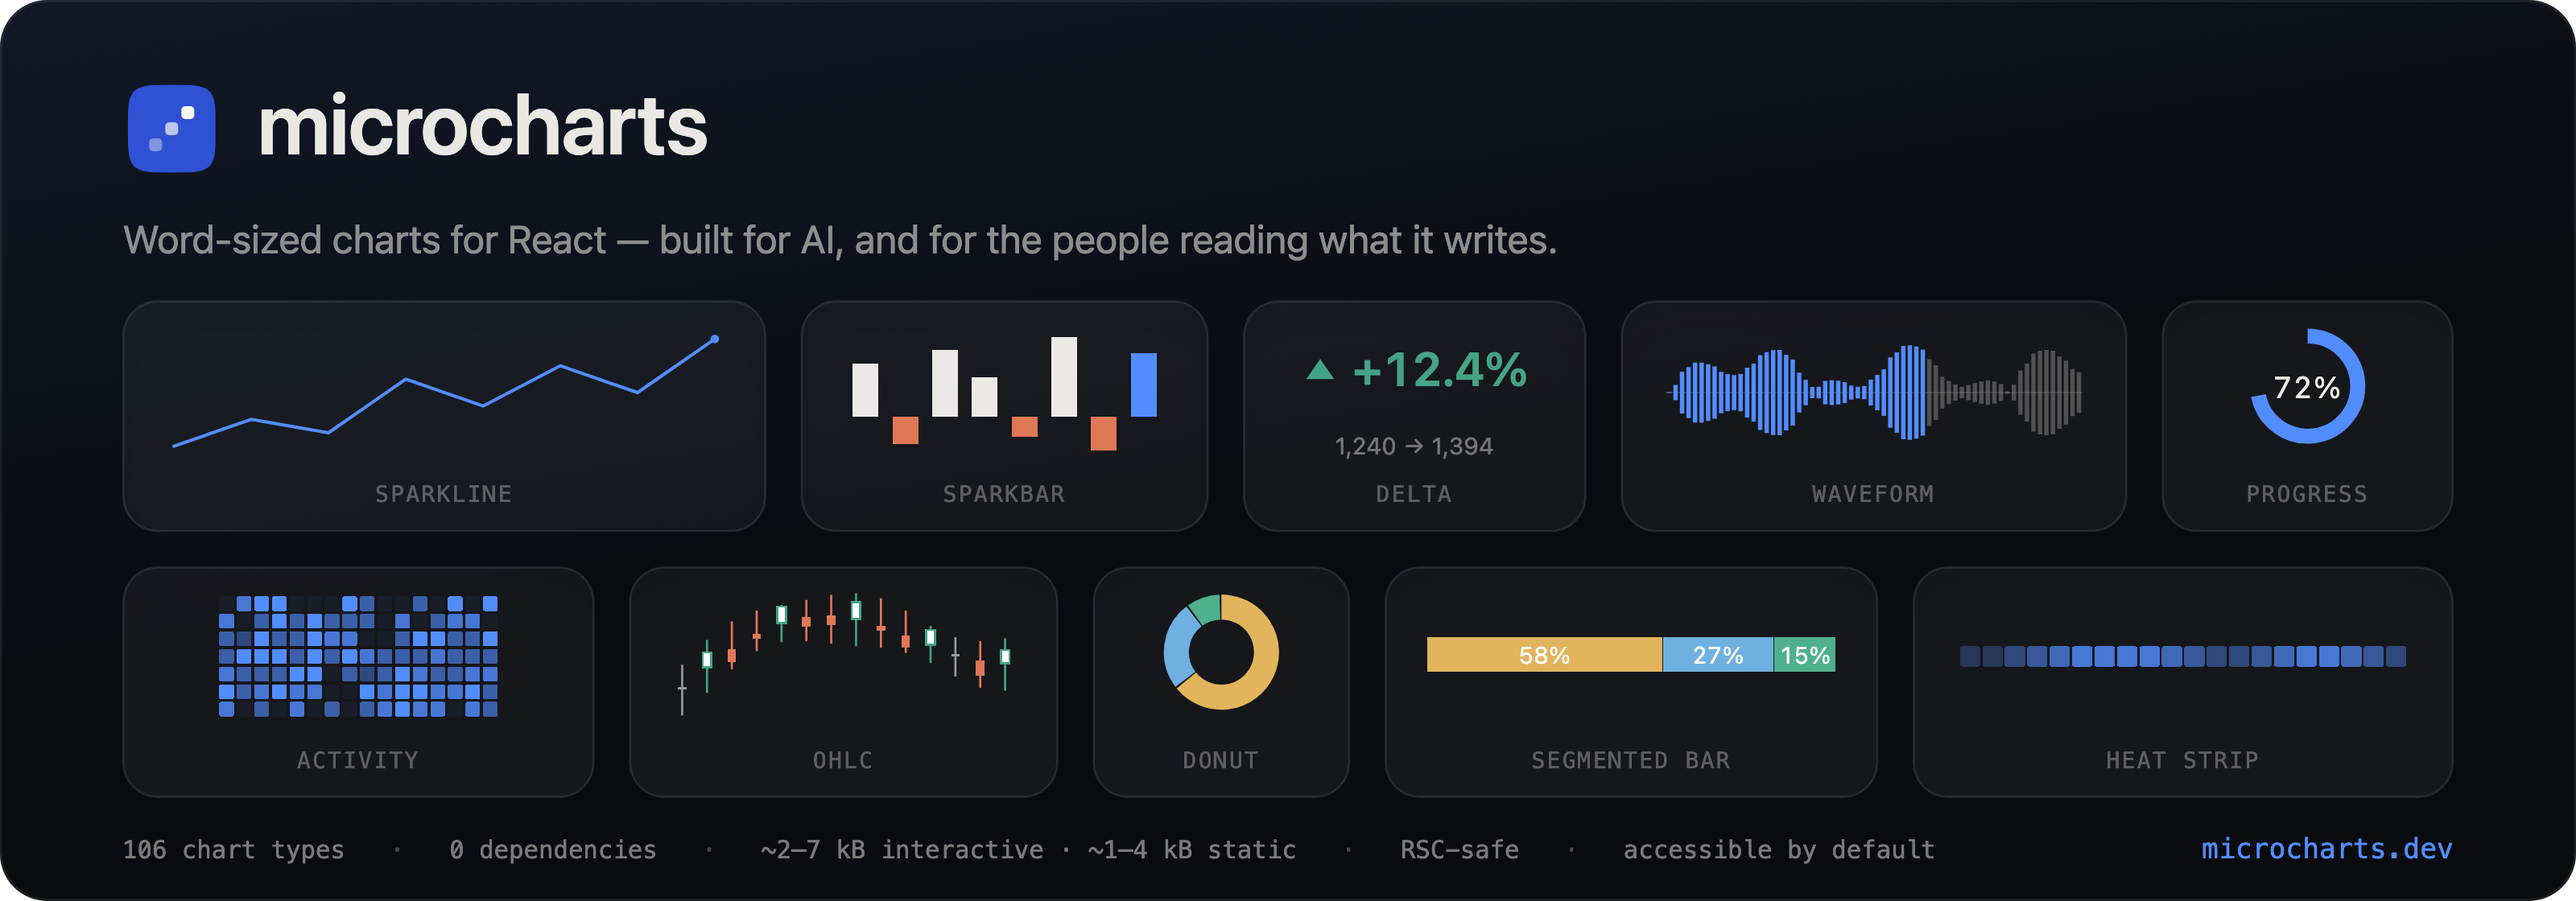
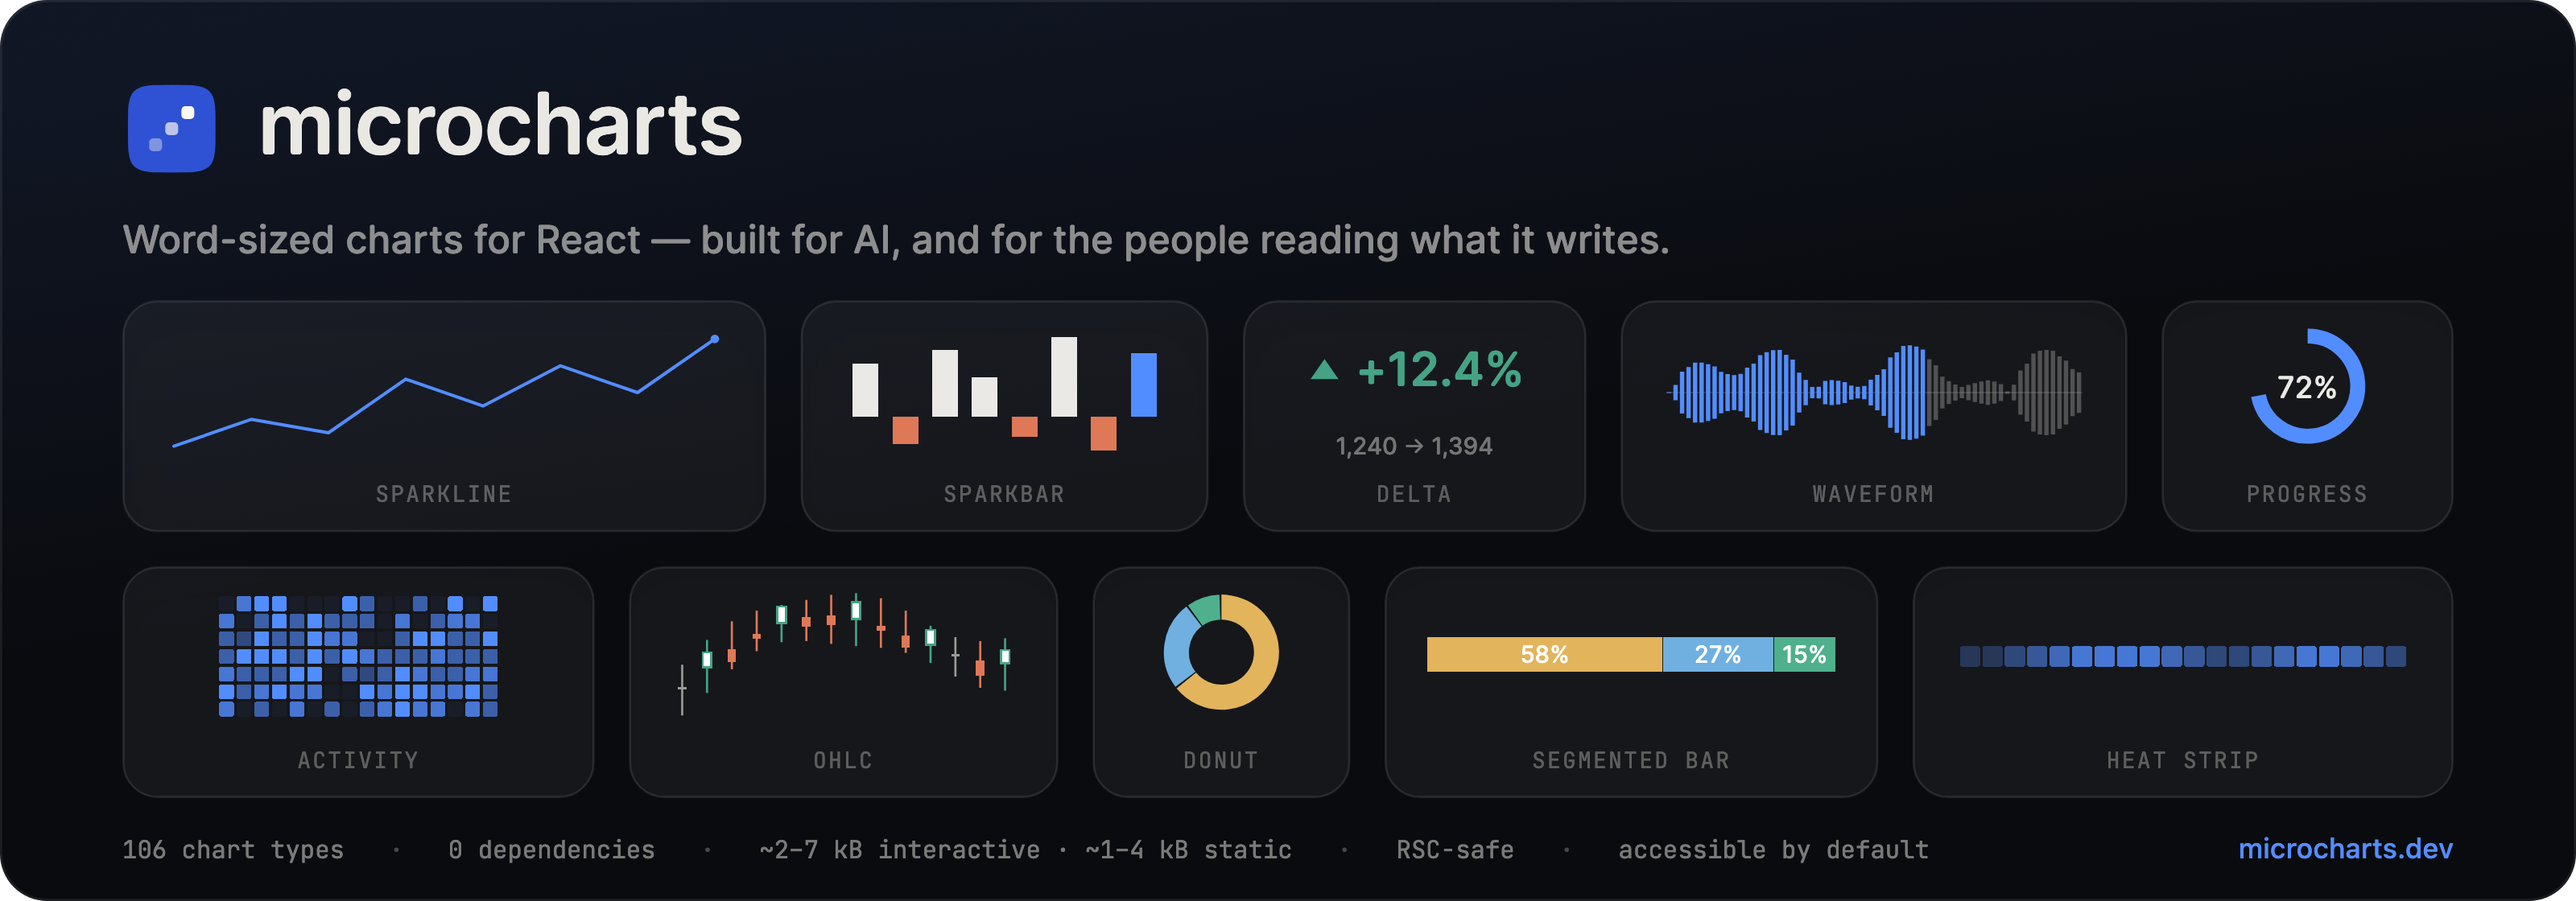
docs(brand): wordmark type and promo font embed

diff --git a/apps/docs/src/components/site-nav.tsx b/apps/docs/src/components/site-nav.tsx
@@ -40,16 +40,13 @@ function isActive(href: string, pathname: string): boolean {
 }
 
 function Wordmark() {
+  // Masthead links keep default App Router prefetch (production only). Dense
+  // surfaces (docs sidebar, gallery cards, MDX) stay on prefetch={false}.
   return (
-    <Link
-      prefetch={false}
-      href="/"
-      className="group flex items-center gap-2.5"
-      aria-label={`${SITE.name} home`}
-    >
+    <Link href="/" className="group flex items-center gap-2.5" aria-label={`${SITE.name} home`}>
       <Brandmark size={28} className="shrink-0 transition-transform group-hover:-translate-y-px" />
       {/* Wordmark sits ~1px low vs links (lowercase + size); nudge up. */}
-      <span className="-translate-y-px text-[0.98rem] font-semibold tracking-[-0.01em] text-fd-foreground">
+      <span className="font-display -translate-y-px text-[0.98rem] font-semibold tracking-[-0.016em] text-fd-foreground">
         microcharts
       </span>
     </Link>
@@ -103,7 +100,6 @@ export function SiteNav() {
             const active = isActive(l.href, pathname);
             return (
               <Link
-                prefetch={false}
                 key={l.href}
                 href={l.href}
                 className={cn(
@@ -165,7 +161,6 @@ export function SiteNav() {
               const active = isActive(l.href, pathname);
               return (
                 <Link
-                  prefetch={false}
                   key={l.href}
                   href={l.href}
                   className={cn(

diff --git a/apps/docs/src/components/mdx.tsx b/apps/docs/src/components/mdx.tsx
@@ -205,12 +205,12 @@ Object.assign(Callout, ChartCallout);
 export function getMDXComponents(components?: MDXComponents) {
   return {
     ...defaultMdxComponents,
-    // No eager prefetch on in-content links: a guide that mentions a few chart
-    // pages would otherwise pull each target route's whole chunk graph on load.
-    // Next still prefetches on hover/press, so navigation stays fast. Machine
-    // surfaces (/catalog.json, /llms.txt, …) are files, not app routes — the
-    // client router would 404 fetching route metadata for them, so they get a
-    // plain anchor.
+    // No prefetch on in-content links: App Router `prefetch={false}` disables
+    // viewport and hover prefetch, so a guide that mentions chart pages won't
+    // pull each target's chunk graph on load. Masthead + home doors keep the
+    // default. Machine surfaces (/catalog.json, /llms.txt, …) are files, not
+    // app routes — the client router would 404 fetching route metadata for
+    // them, so they get a plain anchor.
     a: (props: ComponentProps<"a">) =>
       /\.(json|txt|xml|md)$/.test(props.href ?? "") ? (
         <a {...props} />

diff --git a/apps/docs/src/components/home/actions.tsx b/apps/docs/src/components/home/actions.tsx
@@ -19,8 +19,9 @@ function Door({
   primary?: boolean;
   children: React.ReactNode;
 }) {
+  // Default prefetch: these are the home page's primary exits (few links).
   return (
-    <Link prefetch={false} href={href} className="door group" data-primary={primary || undefined}>
+    <Link href={href} className="door group" data-primary={primary || undefined}>
       <span className="door-label">{children}</span>
       <ArrowRight
         aria-hidden
@@ -34,7 +35,6 @@ function Door({
 function SetupLink() {
   return (
     <Link
-      prefetch={false}
       href={SETUP_HREF}
       className="ulink group inline-flex items-center gap-1.5 font-mono text-[11px] uppercase tracking-[0.08em]"
       style={{ color: "var(--ink-2)" }}

diff --git a/apps/docs/src/components/brand/name-section.tsx b/apps/docs/src/components/brand/name-section.tsx
@@ -19,7 +19,7 @@ export function BrandNameSection() {
             <div className="flex items-center gap-3">
               <Brandmark size={30} />
               <span
-                className="text-2xl font-semibold leading-none tracking-[-0.01em]"
+                className="font-display text-2xl font-semibold leading-none tracking-[-0.016em]"
                 style={{ color: "var(--ink)" }}
               >
                 microcharts

diff --git a/apps/docs/src/components/site-footer.tsx b/apps/docs/src/components/site-footer.tsx
@@ -99,7 +99,7 @@ export function SiteFooter() {
               <Link
                 prefetch={false}
                 href="/"
-                className="text-[0.95rem] font-semibold tracking-tight transition-colors hover:text-fd-primary"
+                className="font-display text-[0.95rem] font-semibold tracking-[-0.016em] transition-colors hover:text-fd-primary"
               >
                 microcharts
               </Link>

diff --git a/apps/docs/src/lib/layout.shared.tsx b/apps/docs/src/lib/layout.shared.tsx
@@ -6,7 +6,7 @@ function Wordmark() {
   return (
     <span className="flex items-center gap-2.5">
       <Brandmark size={22} />
-      <span className="font-semibold tracking-[-0.01em]">{appName}</span>
+      <span className="font-display font-semibold tracking-[-0.016em]">{appName}</span>
     </span>
   );
 }
